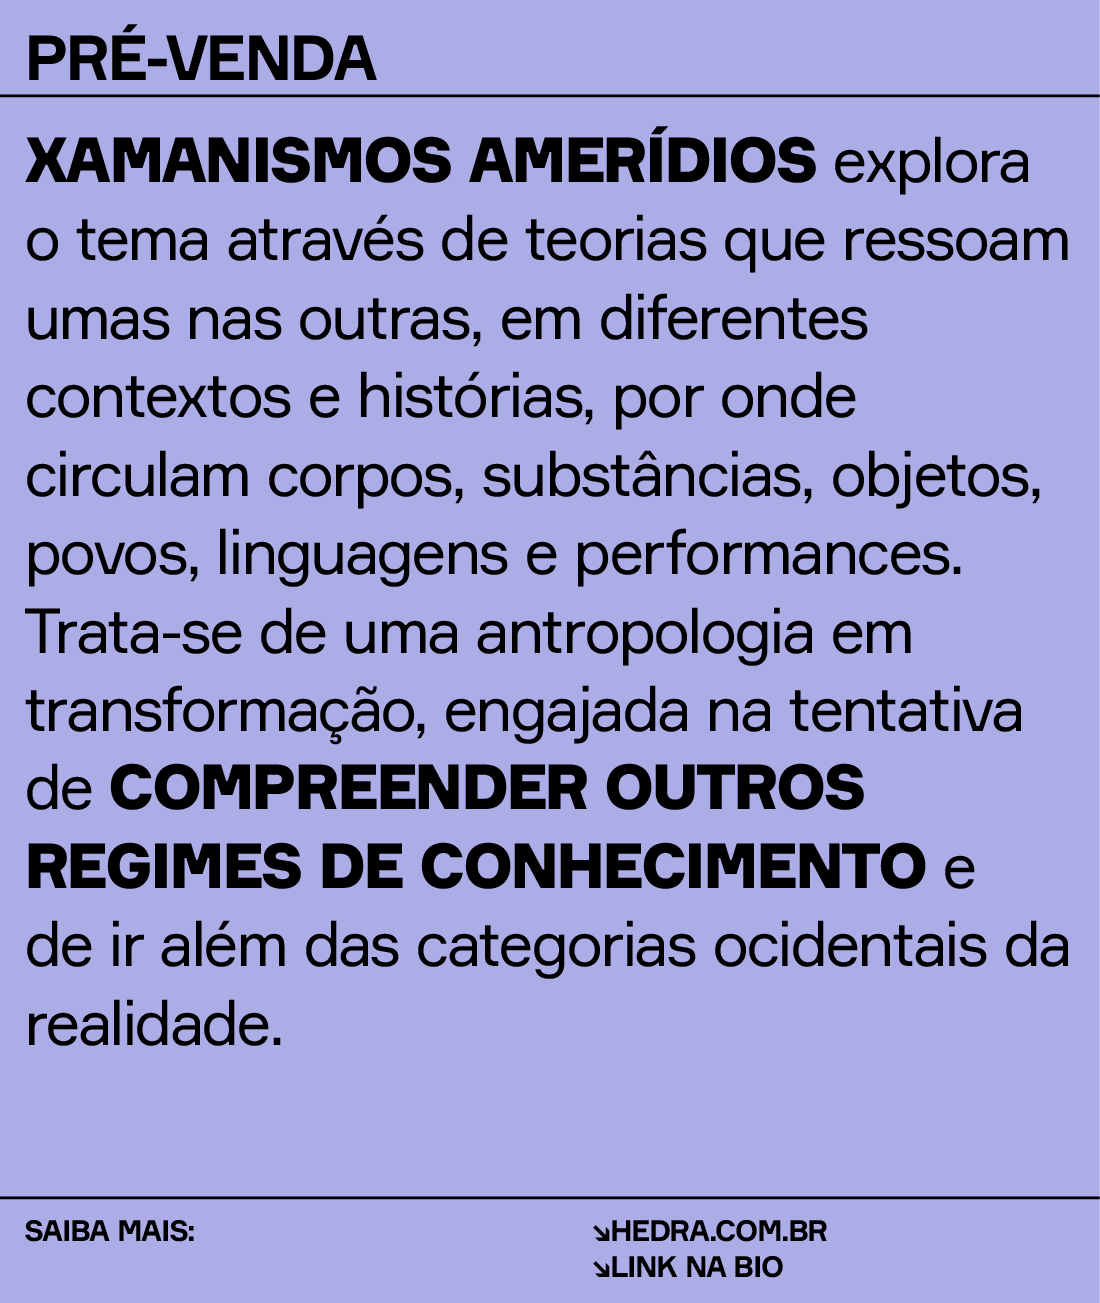
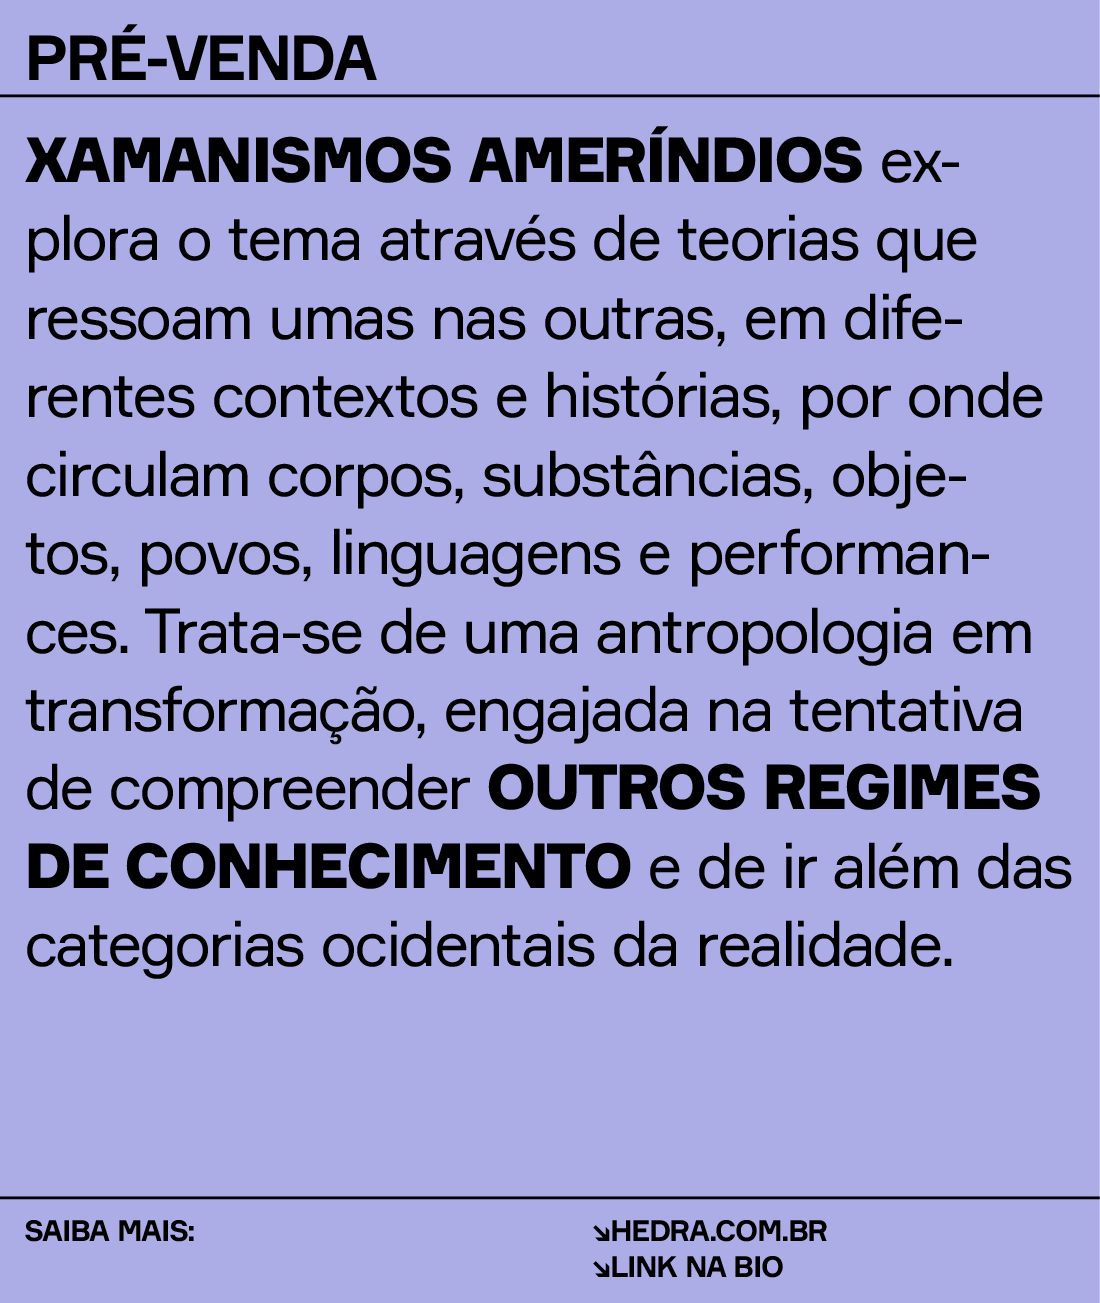
campanha xamanismos--correções no post pre venda

Changed region(s): [[0.0, 0.0921, 0.9582, 0.5219], [0.0309, 0.5833, 0.9891, 0.7982]]

diff --git a/campanhas/xamanismos/XAMANISMOS_PREVENDA.tex b/campanhas/xamanismos/XAMANISMOS_PREVENDA.tex
@@ -33,14 +33,16 @@
 
 \MyCover{XAMANISMOS_THUMB.pdf}
 
-\vfill\scale[factor=6]{\Seta\,{\bf 20\% DE DESCONTO}} % Data entra somente após aprovação da Mayara
+\vfill\scale[factor=6]{\Seta\,{\bf 30\% DE DESCONTO}} % Data entra somente após aprovação da Mayara
 
 \page %---------------------------------------------------------|
 
 \hyphenpenalty=10000
 \exhyphenpenalty=10000
 
-{\bf XAMANISMOS AMERÍDIOS} explora o tema através de teorias que ressoam umas nas outras, em diferentes contextos e histórias, por onde circulam corpos, substâncias, objetos, povos, linguagens e performances. Trata-se de uma antropologia em transformação, engajada na tentativa de {\bf COMPREENDER OUTROS REGIMES DE CONHECIMENTO} e de ir além das categorias ocidentais da realidade.
+{\bf XAMANISMOS AMERÍNDIOS} explora o tema através de teorias que ressoam umas nas outras, em diferentes contextos e histórias, por onde circulam corpos, substâncias, objetos, povos, linguagens e performances. Trata-se de uma antropologia em transformação, engajada na tentativa de compreender {\bf OUTROS REGIMES 
+
+DE CONHECIMENTO} e de ir além das categorias ocidentais da realidade.
 
 \page %---------------------------------------------------------|
 
@@ -51,7 +53,7 @@ O livro é organizado por\\
 {\bf ARISTOTELES BARCELOS NETO}, {\bf LAURA PÉREZ GIL} e {\bf DANILO PAIVA RAMOS}. Reúne 18 textos, nos quais são explorados modos xamânicos particulares de conceber o mundo e agir nele. O posfácio é de {\bf ESTHER JEAN LANGDON}, pesquisadora de narrativas xamânicas e performance.
 
 \vfill
-\scale[factor=5]{\Seta\,De R\$\,117,00 {\bf por R\$\,93,60}, 504 páginas, 1ª edição.}
+\scale[factor=5]{\Seta\,De R\$\,117,00 {\bf por R\$\,81,90}, 504 páginas, 1ª edição.}
 
 \page %---------------------------------------------------------|
 

diff --git a/campanhas/xamanismos/XAMANISMOS_PREVENDA.md b/campanhas/xamanismos/XAMANISMOS_PREVENDA.md
@@ -1,8 +1,8 @@
-Pré-venda do livro «Xamanismos ameríndios» com 20% de desconto!
+Pré-venda do livro «Xamanismos ameríndios» com 30% de desconto!
 
-«Xamanismos amerídios» explora o tema através de teorias que ressoam umas nas outras, em diferentes contextos e histórias, por onde circulam corpos, substâncias, objetos, povos, linguagens e performances. Trata-se de uma antropologia em transformação, engajada na tentativa de compreender outros regimes de conhecimento e de ir além das categorias ocidentais da realidade.
+«Xamanismos ameríndios» explora o tema através de teorias que ressoam umas nas outras, em diferentes contextos e histórias, por onde circulam corpos, substâncias, objetos, povos, linguagens e performances. Trata-se de uma antropologia em transformação, engajada na tentativa de compreender outros regimes de conhecimento e de ir além das categorias ocidentais da realidade.
 
 O livro é organizado por  Aristoteles Barcelos Neto, Laura Pérez Gil e Danilo Paiva Ramos. Reúne 18 textos, nos quais são explorados modos xamânicos particulares de conceber o mundo e agir nele. O posfácio é de Esther Jean Langdon, pesquisadora de narrativas xamânicas e performance.
 
-De R$ 117,00 por R$ 93,60
+De R$ 117,00 por R$ 81,90
 504 páginas, 1ª edição.
